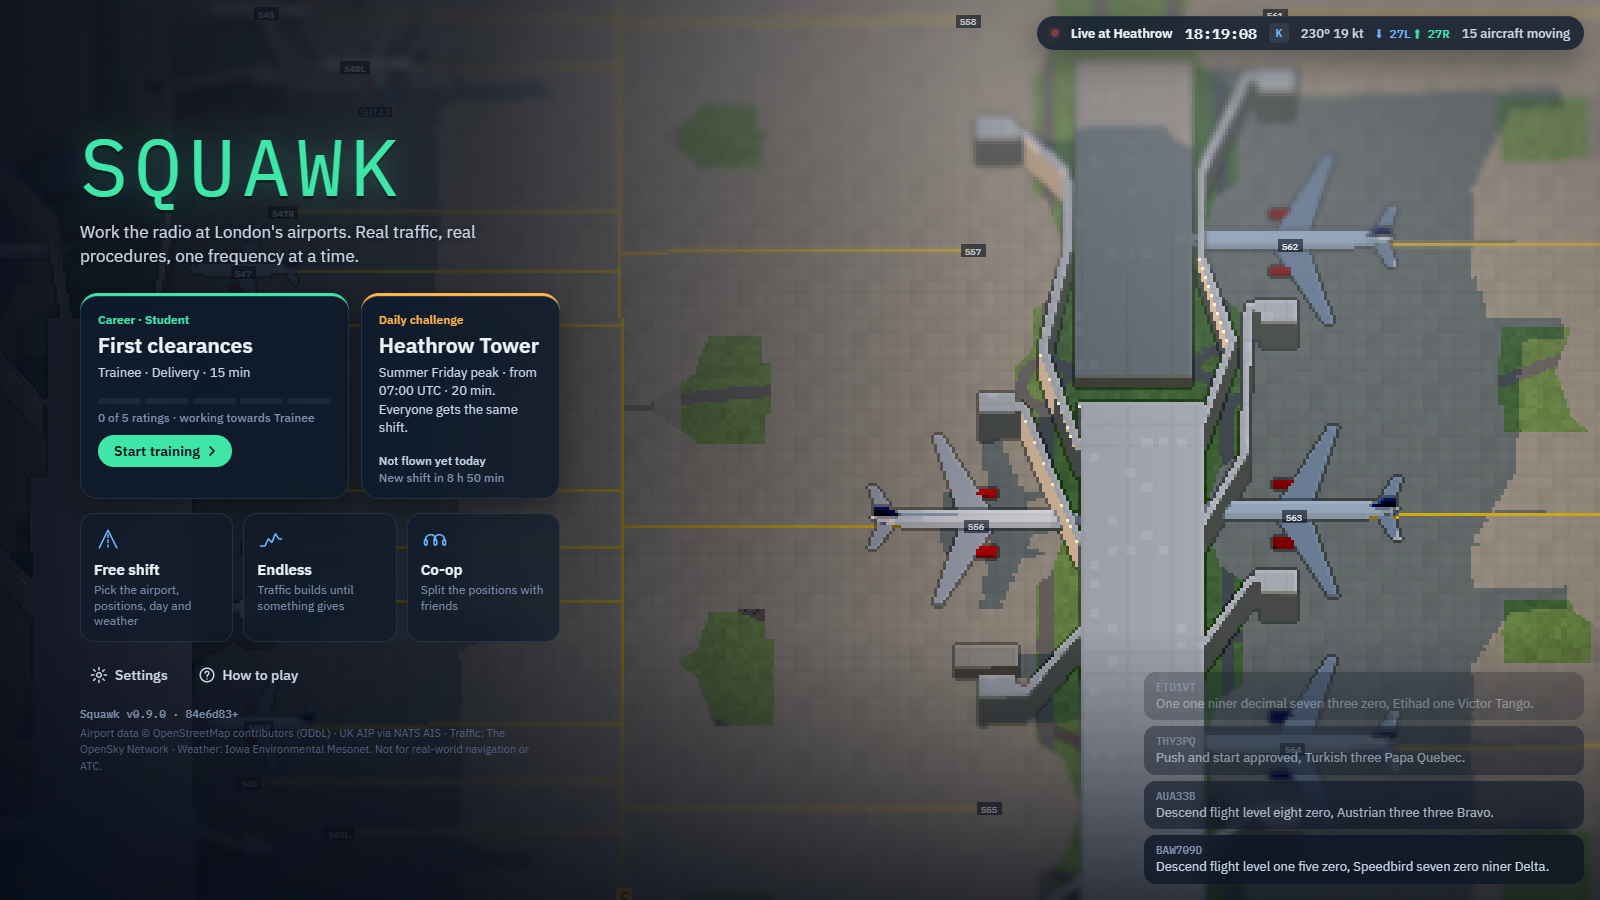
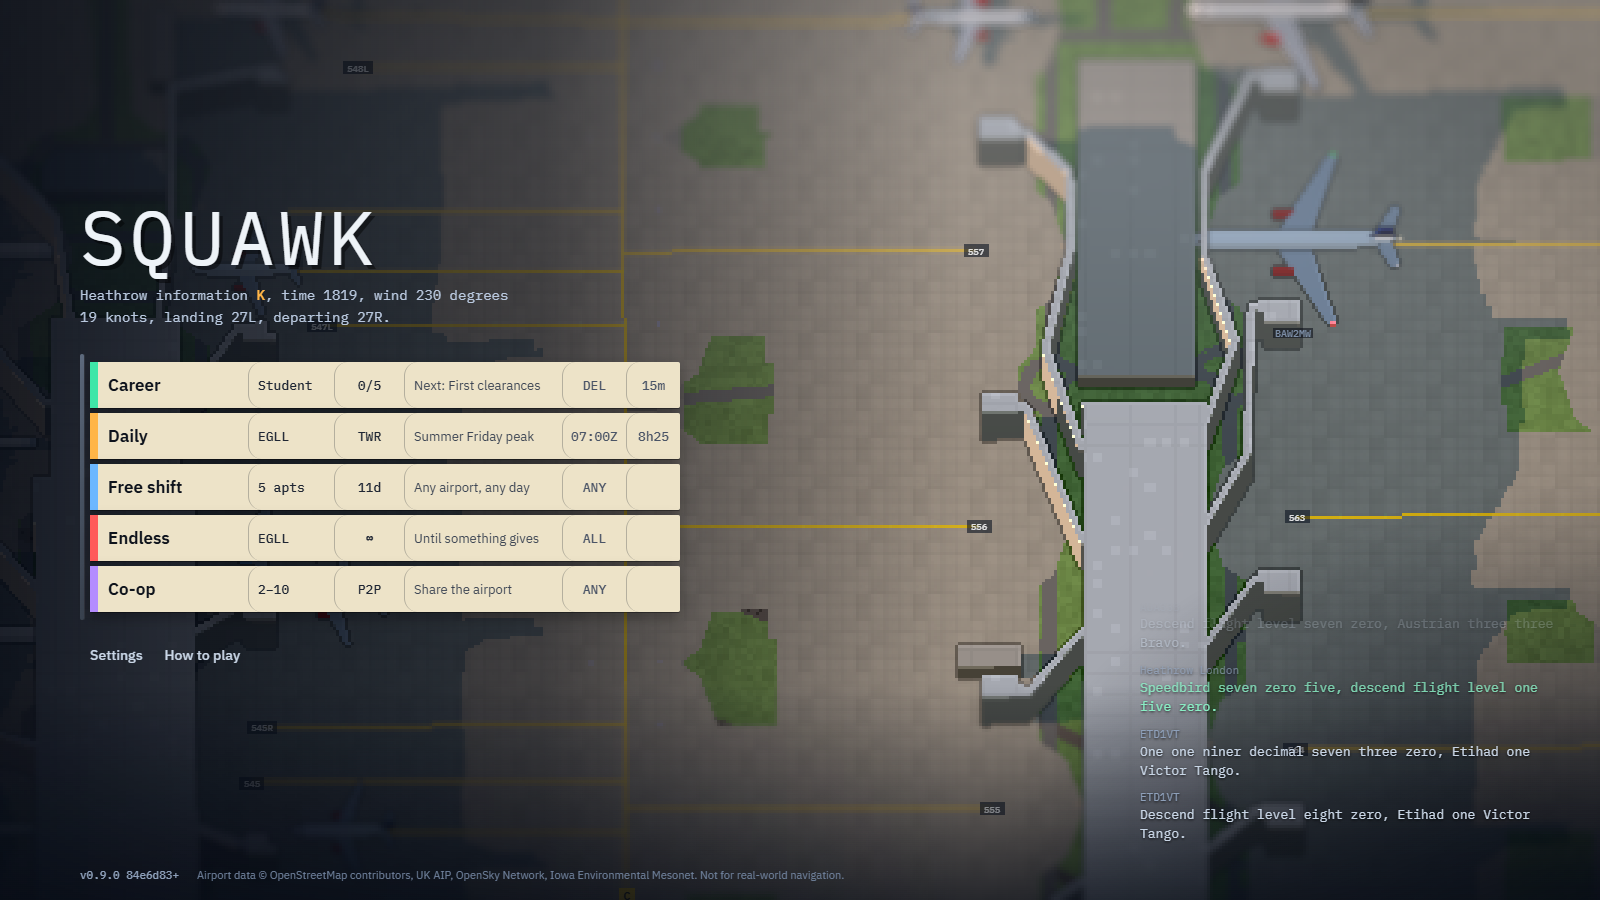
Home screen as a flight strip bay: modes on paper strips, live ATIS line, radio transcript

diff --git a/apps/web/src/screens/Menu.svelte b/apps/web/src/screens/Menu.svelte
@@ -4,7 +4,7 @@
   import { localHour } from '@squawk/sim';
   import { loadProgress } from '../lib/progress.ts';
   import { dailyShift, RATINGS } from '../lib/career.ts';
-  import { DAYS } from '../lib/data.ts';
+  import { AIRPORTS, DAYS } from '../lib/data.ts';
   import { COMMIT, REPO, VERSION } from '../lib/version.ts';
 
   interface Props { onNav: (s: string) => void; error?: string }
@@ -14,187 +14,143 @@
   const closeHelp = () => { help = false; try { sessionStorage.setItem('squawk.helpSeen', '1'); } catch { /* ignore */ } };
 
   // Career: where you are on the ladder and what comes next.
-  const ladder = RATINGS.map(r => ({ name: r.name, done: r.shifts.filter(s => p.passed[s.id]).length, total: r.shifts.length }));
-  const earned = ladder.filter(r => r.done === r.total).length;
+  const earned = RATINGS.filter(r => r.shifts.every(s => p.passed[s.id])).length;
   const next = RATINGS.flatMap(r => r.shifts.map(s => ({ ...s, rating: r.name }))).find(s => !p.passed[s.id]);
-  const current = earned ? RATINGS[earned - 1].name : 'Student';
+  const rank = earned ? RATINGS[earned - 1].name : 'Student';
 
   // Daily challenge: today's shift, your result, and when it changes.
   const daily = dailyShift();
   const dailyResult = p.daily[daily.key];
   const dailyDay = DAYS.find(d => d.id === daily.day);
-  const dailyMood = dailyDay?.tags.includes('fog') ? 'Fog and low visibility' : dailyDay?.tags.includes('night') ? 'Before dawn' : dailyDay?.tags.includes('easterly') ? 'Easterly day' : 'Summer Friday peak';
-  const SEAT: Record<string, string> = { DEL: 'Delivery', GND: 'Ground', TWR: 'Tower', DIR: 'Director', LON: 'London' };
+  const mood = dailyDay?.tags.includes('fog') ? 'Fog, low visibility' : dailyDay?.tags.includes('night') ? 'Before dawn' : dailyDay?.tags.includes('easterly') ? 'Easterly day' : 'Summer Friday peak';
   let now = $state(Date.now());
-  $effect(() => { const t = setInterval(() => (now = Date.now()), 1000); return () => clearInterval(t); });
+  $effect(() => { const t = setInterval(() => (now = Date.now()), 15000); return () => clearInterval(t); });
   const resetIn = $derived.by(() => {
-    const ms = Date.UTC(new Date(now).getUTCFullYear(), new Date(now).getUTCMonth(), new Date(now).getUTCDate() + 1) - now;
-    const h = Math.floor(ms / 3.6e6), m = Math.floor((ms % 3.6e6) / 6e4);
-    return `${h} h ${String(m).padStart(2, '0')} min`;
+    const d = new Date(now), ms = Date.UTC(d.getUTCFullYear(), d.getUTCMonth(), d.getUTCDate() + 1) - now;
+    return `${Math.floor(ms / 3.6e6)}h${String(Math.floor((ms % 3.6e6) / 6e4)).padStart(2, '0')}`;
   });
+  const realDays = DAYS.filter(d => !d.id.endsWith('-madeup')).length;
 
-  // The live backdrop's clock, weather and radio.
+  // The live backdrop: its clock, weather and radio.
   let live = $state<AttractInfo | null>(null);
-  const clock = $derived.by(() => {
-    if (!live) return '';
-    const h = localHour(live.time), hh = Math.floor(h), mm = Math.floor((h - hh) * 60), ss = Math.floor(live.time % 60);
-    return `${String(hh).padStart(2, '0')}:${String(mm).padStart(2, '0')}:${String(ss).padStart(2, '0')}`;
-  });
+  const hhmm = (t: number) => { const h = localHour(t), hh = Math.floor(h), mm = Math.floor((h - hh) * 60); return `${String(hh).padStart(2, '0')}${String(mm).padStart(2, '0')}`; };
+
+  // Each mode is a flight progress strip, boxed like a real UK strip: name, two short fields, the detail, two more.
+  type Strip = { id: string; edge: string; name: string; a: string; b: string; c: string; d: string; e: string };
+  const strips: Strip[] = $derived([
+    { id: 'career', edge: 'var(--green)', name: 'Career', a: rank, b: `${earned}/${RATINGS.length}`, c: next ? `Next: ${next.title}` : 'Every rating earned', d: next ? next.seats.join('+') : '—', e: next ? `${next.minutes}m` : '' },
+    { id: 'daily', edge: 'var(--amber)', name: 'Daily', a: 'EGLL', b: daily.seats.join('+'), c: dailyResult ? `Flown today: grade ${dailyResult.grade}, ${dailyResult.score.toLocaleString('en-GB')}` : mood, d: `${daily.startUtc}Z`, e: resetIn },
+    { id: 'setup', edge: 'var(--accent)', name: 'Free shift', a: `${AIRPORTS.length} apts`, b: `${realDays}d`, c: 'Any airport, any day', d: 'ANY', e: '' },
+    { id: 'setup:endless', edge: 'var(--red)', name: 'Endless', a: 'EGLL', b: '∞', c: 'Until something gives', d: 'ALL', e: '' },
+    { id: 'coop', edge: '#b48cff', name: 'Co-op', a: '2–10', b: 'P2P', c: 'Share the airport', d: 'ANY', e: '' },
+  ]);
 </script>
 
 <div class="menu">
   <Attract onInfo={(i) => (live = i)} />
   <div class="shade"></div>
 
-  {#if live}
-    <div class="live" aria-label="Live at Heathrow">
-      <span class="dot"></span><span class="where">Live at Heathrow</span>
-      <b class="clk">{clock}</b>
-      <span class="atis">{live.atis}</span>
-      <span>{String(live.wind.dir).padStart(3, '0')}° {live.wind.kt} kt</span>
-      <span class="rw"><i class="arr">⬇ {live.arr.join(' ')}</i> <i class="dep">⬆ {live.dep.join(' ')}</i></span>
-      <span>{live.moving} aircraft moving</span>
-    </div>
-    <div class="feed" aria-hidden="true">
-      {#each live.lines as l, i (i + l.text)}
-        <p class:atc={l.atc} style="opacity:{0.35 + (i / Math.max(1, live.lines.length - 1)) * 0.65}"><b>{l.who}</b>{l.text}</p>
+  <main>
+    <header>
+      <h1>SQUAWK</h1>
+      {#if live}
+        <p class="atis" aria-label="Live conditions at Heathrow">
+          Heathrow information <b>{live.atis}</b>, time {hhmm(live.time)}, wind {String(live.wind.dir).padStart(3, '0')} degrees {live.wind.kt} knots,
+          landing {live.arr.join(' and ')}, departing {live.dep.join(' and ')}.
+        </p>
+      {:else}
+        <p class="atis">Work the radio at London's airports.</p>
+      {/if}
+    </header>
+
+    <div class="bay" role="list">
+      {#each strips as s (s.id)}
+        <button class="strip" role="listitem" style="--edge:{s.edge}" onclick={() => onNav(s.id)}>
+          <span class="name">{s.name}</span>
+          <span class="box a">{s.a}</span>
+          <span class="box b">{s.b}</span>
+          <span class="box c">{s.c}</span>
+          <span class="box d">{s.d}</span>
+          <span class="box e">{s.e}</span>
+        </button>
       {/each}
     </div>
+
+    <nav class="aux">
+      <button onclick={() => onNav('settings')}>Settings</button>
+      <button onclick={() => (help = true)}>How to play</button>
+      {#if p.shifts}<span>{p.shifts} {p.shifts === 1 ? 'shift' : 'shifts'} worked</span>{/if}
+    </nav>
+    {#if error}<p class="err">{error}</p>{/if}
+  </main>
+
+  {#if live}
+    <ol class="log" aria-hidden="true">
+      {#each live.lines as l, i (i + l.text)}<li class:atc={l.atc}><span>{l.who}</span>{l.text}</li>{/each}
+    </ol>
   {/if}
 
-  <main>
-    <h1>SQUAWK</h1>
-    <p class="tag">Work the radio at London's airports. Real traffic, real procedures, one frequency at a time.</p>
-
-    <div class="cards">
-      <button class="card career" onclick={() => onNav('career')}>
-        <div class="kicker">Career · {current}</div>
-        <div class="title">{next ? next.title : 'Every rating earned'}</div>
-        <div class="desc">{next ? `${next.rating} · ${next.seats.map(s => SEAT[s]).join(' + ')} · ${next.minutes} min${next.checkride ? ' · checkride' : ''}` : 'Fly any shift again to beat your best.'}</div>
-        <div class="ladder" aria-label="{earned} of {ladder.length} ratings">
-          {#each ladder as r}
-            <div class="rung" class:done={r.done === r.total} title="{r.name}: {r.done} of {r.total} shifts"><div class="fill" style="width:{(r.done / r.total) * 100}%"></div></div>
-          {/each}
-        </div>
-        <div class="cap">{earned} of {ladder.length} ratings{next ? ` · working towards ${next.rating}` : ''}</div>
-        <div class="cta">{p.shifts ? 'Continue' : 'Start training'} <svg viewBox="0 0 24 24"><path d="M9 6l6 6-6 6" /></svg></div>
-      </button>
-
-      <button class="card daily" onclick={() => onNav('daily')}>
-        <div class="kicker">Daily challenge</div>
-        <div class="title">Heathrow {daily.seats.map(s => SEAT[s]).join(' + ')}</div>
-        <div class="desc">{dailyMood} · from {daily.startUtc} UTC · {daily.minutes} min. Everyone gets the same shift.</div>
-        <div class="dfoot">
-          {#if dailyResult}<span class="res">Today: <b class="g{dailyResult.grade}">{dailyResult.grade}</b> · {dailyResult.score.toLocaleString('en-GB')}</span>
-          {:else}<span class="res">Not flown yet today</span>{/if}
-          <span class="reset">New shift in {resetIn}</span>
-        </div>
-      </button>
-    </div>
-
-    <div class="modes">
-      <button class="mode" onclick={() => onNav('setup')}>
-        <svg viewBox="0 0 32 32" aria-hidden="true"><path d="M6 26L16 6l10 20" /><path d="M16 11v3M16 17v3M16 23v2" /></svg>
-        <b>Free shift</b><span>Pick the airport, positions, day and weather</span>
-      </button>
-      <button class="mode" onclick={() => onNav('setup:endless')}>
-        <svg viewBox="0 0 32 32" aria-hidden="true"><path d="M4 24h5l4-8 4 4 4-10 4 6h3" /></svg>
-        <b>Endless</b><span>Traffic builds until something gives</span>
-      </button>
-      <button class="mode" onclick={() => onNav('coop')}>
-        <svg viewBox="0 0 32 32" aria-hidden="true"><path d="M5 17a6 6 0 0 1 12 0M15 17a6 6 0 0 1 12 0" /><rect x="4" y="17" width="3" height="6" rx="1.5" /><rect x="15" y="17" width="3" height="6" rx="1.5" /><rect x="25" y="17" width="3" height="6" rx="1.5" /></svg>
-        <b>Co-op</b><span>Split the positions with friends</span>
-      </button>
-    </div>
-
-    <div class="util">
-      <button onclick={() => onNav('settings')}>
-        <svg viewBox="0 0 24 24" aria-hidden="true"><circle cx="12" cy="12" r="3" /><path d="M12 2v3M12 19v3M2 12h3M19 12h3M4.9 4.9l2.1 2.1M17 17l2.1 2.1M4.9 19.1L7 17M17 7l2.1-2.1" /></svg>Settings
-      </button>
-      <button onclick={() => (help = true)}>
-        <svg viewBox="0 0 24 24" aria-hidden="true"><circle cx="12" cy="12" r="9" /><path d="M9.5 9.5a2.5 2.5 0 1 1 3.5 2.3c-.6.3-1 .8-1 1.5v.7M12 17.2v.1" /></svg>How to play
-      </button>
-      {#if p.shifts}<span class="stat">{p.shifts} {p.shifts === 1 ? 'shift' : 'shifts'} worked</span>{/if}
-    </div>
-    {#if error}<p class="err">{error}</p>{/if}
-    <footer>
-      <a class="ver" href={REPO} target="_blank" rel="noopener" title="Source code and release notes">Squawk v{VERSION} · {COMMIT}</a><br />
-      Airport data © OpenStreetMap contributors (ODbL) · UK AIP via NATS AIS · Traffic: The OpenSky Network · Weather: Iowa Environmental Mesonet. Not for real-world navigation or ATC.
-    </footer>
-  </main>
+  <footer>
+    <a href={REPO} target="_blank" rel="noopener">v{VERSION} {COMMIT}</a>
+    <span>Airport data © OpenStreetMap contributors, UK AIP, OpenSky Network, Iowa Environmental Mesonet. Not for real-world navigation.</span>
+  </footer>
 </div>
 {#if help}<Help onClose={closeHelp} />{/if}
 
 <style>
   .menu { position: relative; height: 100vh; overflow: hidden; color: var(--ink); }
   .shade { position: absolute; inset: 0; pointer-events: none;
-    background: linear-gradient(90deg, rgba(6, 12, 24, 0.92) 0%, rgba(6, 12, 24, 0.72) 30%, rgba(6, 12, 24, 0.1) 62%, rgba(6, 12, 24, 0) 75%),
-      linear-gradient(0deg, rgba(6, 12, 24, 0.7) 0%, rgba(6, 12, 24, 0) 30%); }
-  main { position: relative; z-index: 2; height: 100%; box-sizing: border-box; display: flex; flex-direction: column; justify-content: center; gap: 14px;
-    padding: 24px clamp(16px, 5vw, 80px); width: min(640px, 100%); overflow-y: auto; }
-  h1 { margin: 0; font: 400 clamp(46px, 6.5vw, 80px)/1 Silkscreen, var(--mono); color: var(--green); letter-spacing: 6px; text-shadow: 0 0 28px rgba(62, 230, 168, 0.35), 0 3px 0 rgba(0, 0, 0, 0.5); }
-  .tag { margin: 0 0 10px; font: 400 17px/1.45 var(--ui); color: var(--ink); max-width: 46ch; text-shadow: 0 1px 8px rgba(0, 0, 0, 0.6); }
+    background: linear-gradient(90deg, rgba(5, 10, 20, 0.88) 0%, rgba(5, 10, 20, 0.6) 34%, rgba(5, 10, 20, 0) 60%),
+      linear-gradient(0deg, rgba(5, 10, 20, 0.75) 0%, rgba(5, 10, 20, 0) 24%),
+      radial-gradient(ellipse 38% 46% at 100% 100%, rgba(5, 10, 20, 0.82), rgba(5, 10, 20, 0) 100%); }
+  main { position: relative; z-index: 2; height: 100%; box-sizing: border-box; display: flex; flex-direction: column; justify-content: center; gap: 26px;
+    padding: 32px clamp(16px, 5vw, 88px) 64px; width: min(760px, 100%); }
 
-  button { font-family: var(--ui); color: inherit; cursor: pointer; text-align: left; border: none; }
-  button:focus-visible { outline: 2px solid var(--accent); outline-offset: 3px; }
-  svg { fill: none; stroke: currentColor; stroke-width: 2; stroke-linecap: round; stroke-linejoin: round; }
+  h1 { margin: 0; font: 400 clamp(44px, 6vw, 76px)/0.9 Silkscreen, var(--mono); letter-spacing: 4px; color: #eef3f8; text-shadow: 4px 4px 0 rgba(0, 0, 0, 0.45); }
+  .atis { margin: 14px 0 0; max-width: 52ch; font: 400 14px/1.55 var(--mono); color: #b9c8de; }
+  .atis b { color: var(--amber); font-weight: 600; }
 
-  .cards { display: grid; grid-template-columns: 1.35fr 1fr; gap: 12px; }
-  .card { position: relative; display: flex; flex-direction: column; gap: 6px; padding: 16px 18px 14px; border-radius: 18px; background: var(--glass); backdrop-filter: blur(14px) saturate(1.2);
-    box-shadow: var(--lift), inset 0 0 0 1px var(--glass-line); transition: transform 0.15s, box-shadow 0.15s; overflow: hidden; }
-  .card:hover { transform: translateY(-2px); box-shadow: 0 16px 40px rgba(0, 0, 0, 0.45), inset 0 0 0 1px rgba(255, 255, 255, 0.16); }
-  .kicker { font: 600 12px var(--ui); color: var(--muted); }
-  .title { font: 600 21px/1.2 var(--ui); color: var(--ink-strong); }
-  .desc { font: 400 13px/1.4 var(--ui); color: var(--ink); }
-  .career { border-top: 3px solid var(--green); }
-  .career .kicker { color: var(--green); }
-  .ladder { display: grid; grid-template-columns: repeat(5, 1fr); gap: 4px; margin: 10px 0 0; }
-  .cap { font: 500 12px var(--ui); color: var(--muted); }
-  .rung { position: relative; height: 6px; border-radius: 6px; background: rgba(255, 255, 255, 0.06); overflow: hidden; }
-  .rung .fill { position: absolute; inset: 0 auto 0 0; background: rgba(62, 230, 168, 0.35); }
-  .rung.done .fill { background: var(--green); }
-  .cta { align-self: flex-start; display: inline-flex; align-items: center; gap: 4px; margin-top: 4px; padding: 7px 12px 7px 16px; border-radius: 999px; background: var(--green); color: var(--bg); font: 700 14px var(--ui); }
-  .cta svg { width: 16px; height: 16px; stroke-width: 2.6; }
-  .daily { border-top: 3px solid var(--amber); }
-  .daily .kicker { color: var(--amber); }
-  .dfoot { margin-top: auto; display: flex; flex-direction: column; gap: 2px; padding-top: 10px; font: 500 12px var(--ui); }
-  .res { color: var(--ink); }
-  .res b { font-family: var(--mono); }
-  .reset { color: var(--muted); }
-  .gS { color: #ffe27a; } .gA { color: var(--green); } .gB { color: var(--accent); } .gC { color: var(--amber); } .gD { color: var(--red); }
+  /* The strip bay: a dark rail with flight progress strips slotted into it. */
+  .bay { position: relative; display: flex; flex-direction: column; gap: 5px; padding: 8px 0 8px 10px; }
+  .bay::before { content: ''; position: absolute; left: 0; top: 0; bottom: 0; width: 4px; border-radius: 2px; background: linear-gradient(#5d6a7d, #39424f); box-shadow: 1px 0 0 rgba(255, 255, 255, 0.08); }
+  .strip { position: relative; display: grid; grid-template-columns: 148px 86px 70px 1fr 64px 54px; align-items: stretch; height: 46px; padding: 0 0 0 10px; border: none; border-radius: 2px;
+    background: #ede3c8; color: #1d2430; text-align: left; cursor: pointer; font: 500 13px var(--mono);
+    box-shadow: 0 1px 0 rgba(0, 0, 0, 0.35), 0 6px 14px rgba(0, 0, 0, 0.28); transition: transform 0.14s ease-out, box-shadow 0.14s; }
+  .strip::before { content: ''; position: absolute; left: 0; top: 0; bottom: 0; width: 8px; background: var(--edge); }
+  .strip:hover, .strip:focus-visible { transform: translateX(14px); box-shadow: 0 1px 0 rgba(0, 0, 0, 0.35), 0 12px 24px rgba(0, 0, 0, 0.4); outline: none; }
+  .strip:focus-visible { box-shadow: 0 0 0 2px var(--accent), 0 12px 24px rgba(0, 0, 0, 0.4); }
+  .strip:active { transform: translateX(10px); }
+  .name { display: flex; align-items: center; padding-left: 8px; font: 600 17px var(--ui); color: #0e131c; }
+  .box { display: flex; align-items: center; padding: 0 9px; border-left: 1px solid rgba(29, 36, 48, 0.28); white-space: nowrap; overflow: hidden; text-overflow: ellipsis; }
+  .box.c { font: 400 13px var(--ui); color: #3a4352; }
+  .box.d, .box.e { justify-content: center; color: #4a5466; }
+  .box.b { justify-content: center; }
 
-  .modes { display: grid; grid-template-columns: repeat(3, 1fr); gap: 10px; }
-  .mode { display: flex; flex-direction: column; align-items: flex-start; gap: 3px; padding: 12px 14px 13px; border-radius: 14px;
-    background: rgba(14, 26, 43, 0.66); backdrop-filter: blur(10px); box-shadow: inset 0 0 0 1px var(--glass-line); transition: background 0.15s, box-shadow 0.15s; }
-  .mode:hover { background: var(--glass-hi); box-shadow: inset 0 0 0 1px rgba(108, 183, 255, 0.45); }
-  .mode svg { width: 28px; height: 28px; margin-bottom: 4px; color: var(--accent); stroke-width: 1.8; }
-  .mode b { font: 600 15px var(--ui); color: var(--ink-strong); }
-  .mode span { font: 400 12px/1.3 var(--ui); color: var(--muted); }
+  .aux { display: flex; align-items: center; gap: 22px; padding-left: 10px; font: 500 14px var(--ui); }
+  .aux button { padding: 0; border: none; background: none; color: #c9d6e6; cursor: pointer; font: inherit; border-bottom: 1px solid transparent; }
+  .aux button:hover, .aux button:focus-visible { color: #fff; border-bottom-color: currentColor; outline: none; }
+  .aux span { color: var(--muted); font-size: 13px; }
+  .err { margin: 0; color: var(--red); font: 14px var(--ui); }
 
-  .util { display: flex; align-items: center; gap: 6px; margin-top: 2px; }
-  .util button { display: inline-flex; align-items: center; gap: 7px; padding: 8px 14px 8px 10px; border-radius: 999px; background: transparent; color: var(--ink); font: 500 14px var(--ui); }
-  .util button:hover { background: var(--knob); color: var(--ink-strong); }
-  .util svg { width: 18px; height: 18px; }
-  .stat { margin-left: auto; font: 500 12px var(--ui); color: var(--muted); }
-  .err { color: var(--red); font: 14px var(--ui); margin: 0; }
-  footer { font: 11px/1.5 var(--ui); color: var(--dim); max-width: 70ch; }
-  .ver { display: inline-block; margin-bottom: 4px; font: 600 11px var(--mono); color: var(--muted); text-decoration: none; }
-  .ver:hover { color: var(--accent); }
+  /* The backdrop's radio, as a transcript fading up from the corner. */
+  .log { position: absolute; z-index: 2; right: clamp(16px, 3vw, 40px); bottom: 56px; width: min(420px, 36vw); margin: 0; padding: 0; list-style: none;
+    display: flex; flex-direction: column; gap: 10px; font: 400 13px/1.45 var(--mono); color: #c9d6e6; text-shadow: 0 1px 3px rgba(0, 0, 0, 0.9);
+    -webkit-mask-image: linear-gradient(transparent, #000 45%); mask-image: linear-gradient(transparent, #000 45%); pointer-events: none; }
+  .log span { display: block; font-size: 11px; color: #8ea0ba; }
+  .log li.atc { color: #8af0c6; }
 
-  .live { position: absolute; z-index: 3; top: 16px; right: 16px; display: flex; align-items: center; gap: 12px; padding: 7px 14px; border-radius: 999px;
-    background: var(--glass); backdrop-filter: blur(14px); box-shadow: var(--lift); font: 500 13px var(--ui); color: var(--ink); }
-  .live .dot { width: 8px; height: 8px; border-radius: 50%; background: var(--red); box-shadow: 0 0 8px var(--red); animation: blink 2s infinite; }
-  .live .where { font-weight: 600; color: var(--ink-strong); }
-  .clk { font: 600 15px var(--mono); color: var(--ink-strong); }
-  .atis { width: 20px; height: 20px; border-radius: 5px; background: var(--knob); display: grid; place-items: center; font: 700 11px var(--mono); color: var(--accent); }
-  .rw i { font: 600 12px var(--mono); font-style: normal; }
-  .rw .arr { color: var(--accent); } .rw .dep { color: var(--green); }
-  .feed { position: absolute; z-index: 3; right: 16px; bottom: 16px; width: min(440px, 40vw); display: flex; flex-direction: column; gap: 6px; pointer-events: none; }
-  .feed p { margin: 0; padding: 8px 12px; border-radius: 12px; background: rgba(10, 20, 36, 0.72); backdrop-filter: blur(8px); font: 400 13px/1.35 var(--ui); color: var(--ink); }
-  .feed p b { display: block; font: 600 11px var(--mono); color: var(--muted); margin-bottom: 1px; }
-  .feed p.atc { color: var(--green); }
-  @keyframes blink { 50% { opacity: 0.35; } }
-  @media (prefers-reduced-motion: reduce) { .live .dot { animation: none; } .card { transition: none; } }
-  @media (max-width: 1150px) { .feed { display: none; } .live { left: 16px; right: auto; top: auto; bottom: 16px; } }
-  @media (max-width: 640px) { .cards, .modes { grid-template-columns: 1fr; } .live { display: none; } main { justify-content: flex-start; } }
+  footer { position: absolute; z-index: 2; left: clamp(16px, 5vw, 88px); right: clamp(16px, 3vw, 40px); bottom: 18px; display: flex; gap: 18px; align-items: baseline; font: 11px var(--ui); color: #6f819c; }
+  footer a { font: 500 11px var(--mono); color: #8ea0ba; text-decoration: none; white-space: nowrap; }
+  footer a:hover { color: #fff; }
+  footer span { white-space: nowrap; overflow: hidden; text-overflow: ellipsis; }
+
+  @media (prefers-reduced-motion: reduce) { .strip { transition: none; } }
+  @media (max-width: 1100px) { .log { display: none; } }
+  @media (max-width: 720px) {
+    .strip { grid-template-columns: 120px 1fr 52px; height: auto; min-height: 46px; }
+    .box.a, .box.b, .box.e { display: none; }
+    .box.c { white-space: normal; padding: 6px 9px; }
+    main { justify-content: flex-start; padding-top: 40px; }
+    footer span { display: none; }
+  }
 </style>
